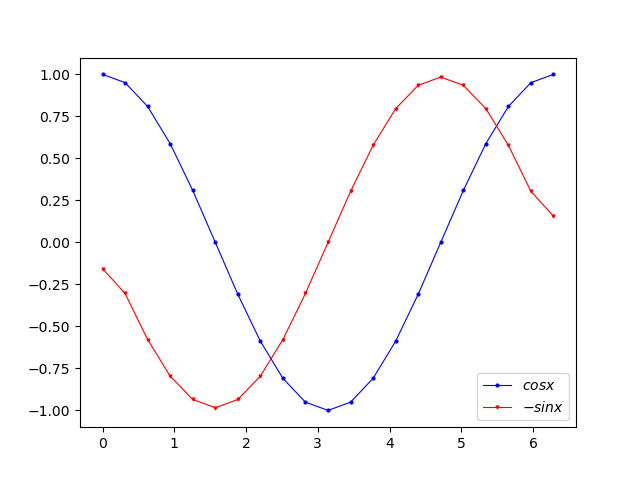
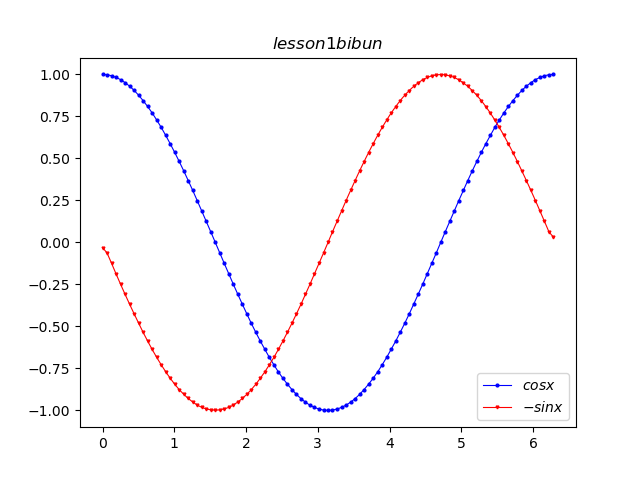
update png s

diff --git a/1027/graph.py b/1027/graph.py
@@ -36,6 +36,7 @@ for i in range(N):
     y.append(float(data1[i].split()[1]))
     yp.append(float(data1[i].split()[2]))
 
+plt.title(f"$lesson1 bibun$")
 plt.plot(x,y ,color="b",marker="o",markersize=2.0,linewidth=0.8,label="$cosx$")
 plt.plot(x,yp,color="r",marker="v",markersize=2.0,linewidth=0.8,label="$-sinx$")
 plt.legend()
@@ -64,6 +65,7 @@ for i in range(N):
     y.append(float(data2[i].split()[1]))
     Y.append(float(data2[i].split()[2]))
 
+plt.title(f"$lesson2 sekibun$")
 plt.plot(x,y ,color="b",marker="o",markersize=2.0,linewidth=0.8,label="$cos$")
 plt.plot(x,Y,color="g",marker="x",markersize=2.0,linewidth=0.8,label="$sinx$")
 plt.legend()
@@ -71,6 +73,7 @@ plt.savefig(f"lesson2.png")
 plt.clf()
 
 
+plt.title(f"$lesson1&2 overwrite$")
 plt.plot(x,y ,color="b",marker="o",markersize=2.0,linewidth=0.8,label="$cos$")
 plt.plot(x1,yp,color="r",marker="v",markersize=2.0,linewidth=0.8,label="$-sinx$")
 plt.plot(x,Y,color="g",marker="x",markersize=2.0,linewidth=0.8,label="$sinx$")

diff --git a/1027/main.py b/1027/main.py
@@ -24,7 +24,7 @@ import numpy as np # numerical module
 #  dy ~ y[i+1] - y[i-1]
 #
 #~~~~~~~~~~~~~~~~~~~~~~~~~~~~~~~~~~
-N = 21
+N = 101
 
 xmin= 0
 xmax= 2*np.pi
@@ -66,7 +66,7 @@ def integration(N2):
         Y[i] = Y[i-1]+y[i]*dx
     return x, Y, y
 
-N2=100
+N2=101
 x,Y,y = integration(N2)
 
 # try to output dat file like above!!
